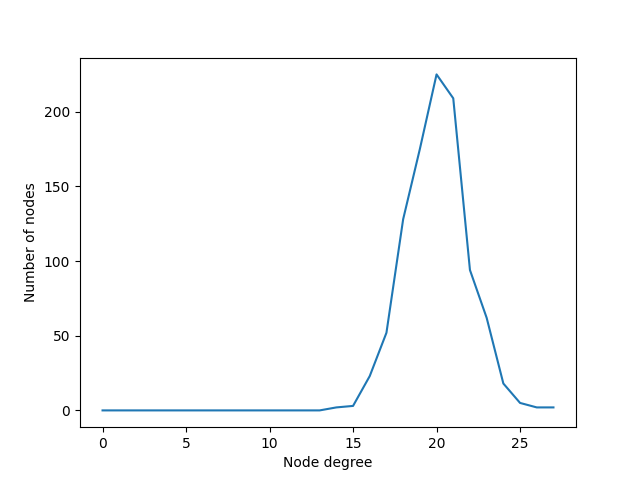
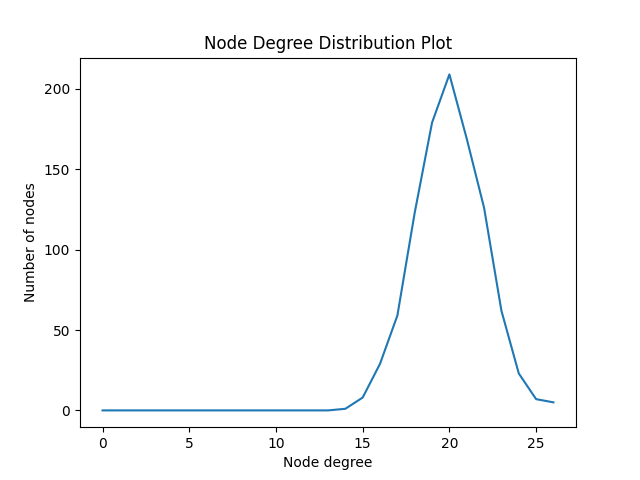
graph_data

diff --git a/graph_calculator.py b/graph_calculator.py
@@ -7,6 +7,7 @@ def calculateGraphMeasurements(G, fileName):
     graph_type = fileName[:-1]
     #node degree distribution plot
     hist = nx.degree_histogram(G)
+    plt.title("Node Degree Distribution Plot")
     plt.xlabel("Node degree")
     plt.ylabel("Number of nodes")
     plt.plot(hist)
@@ -14,13 +15,20 @@ def calculateGraphMeasurements(G, fileName):
     plt.close()
 
     #local clustering coefficient plot
-    #clus = nx.clustering(G)
-    #plt.xlabel("Clustering Coefficient")
-    #plt.ylabel("N")
-    #plt.savefig(fileName + "/" + fileName + "_clustering_dist.png")
-    #plt.close()
+    clus = nx.clustering(G)
+    plt.title("Local Clustering Distribution Plot")
+    plt.xlabel("Graph Nodes")
+    plt.ylabel("Clustering Coefficient")
+    plt.bar(clus.keys(), clus.values())
+    plt.savefig("graph_data/" + graph_type + "/" + fileName + "_clustering_dist.png")
+    plt.close()
+
     #shortest path lengths plot
-	#plt.savefig(fileName + "/" + fileName + "_shortest_dist.png")
+    plt.title("Shortest Path Lengths Distribution Plot")
+    plt.xlabel("Path Lengths")
+    plt.ylabel("Number of Nodes")
+    plt.savefig("graph_data/" + graph_type + "/" + fileName + "_shortest_paths_dist.png")
+    plt.close()
 
     #open file to put in numerical values
     file = open("graph_data/" + graph_type + "/" + fileName + "_data.txt", "w")
